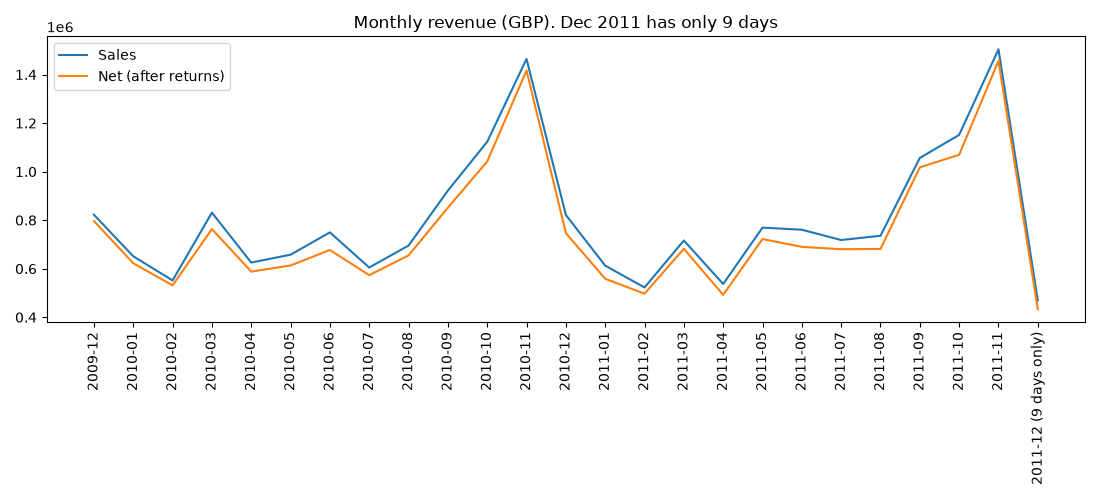
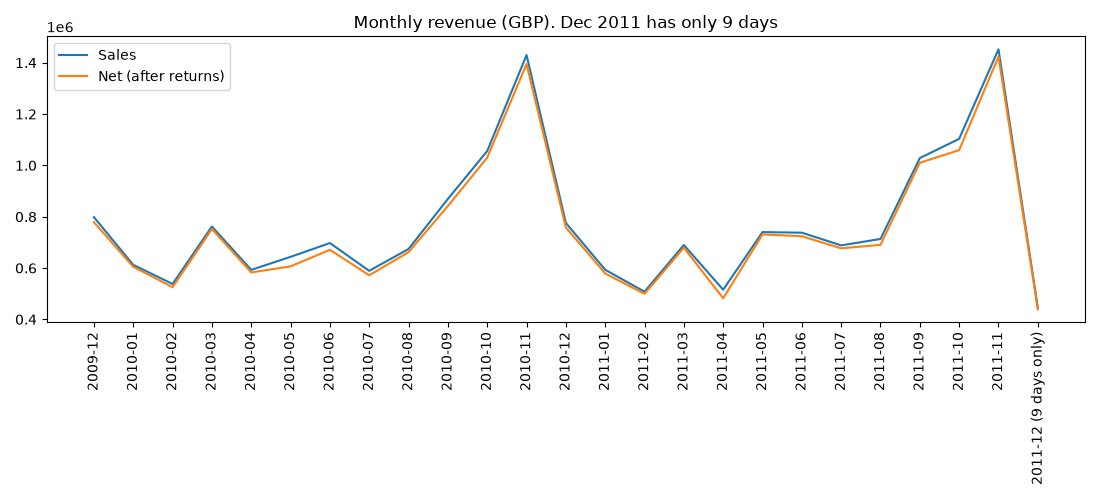
Add files via upload

diff --git a/02_monthly.py b/02_monthly.py
@@ -1,34 +1,40 @@
-import pandas as pd
+import pandas as pd    #getting the tools i need for this project
 import matplotlib.pyplot as plt
-
+                       #getting the data
 df = pd.read_csv("online_retail_II.csv", parse_dates=["InvoiceDate"])
-
-df["Revenue"] = df["Quantity"] * df["Price"]
-df["Month"] = df["InvoiceDate"].dt.to_period("M")
+                      #treat Invoice date column as date, all others are treated as text by default in python
+df["Revenue"] = df["Quantity"] * df["Price"]  #creating a new useful column for analysis
+df["Month"] = df["InvoiceDate"].dt.to_period("M") #month column to group sales by month
 df["is_cancel"] = df["Invoice"].astype(str).str.startswith("C")
 
-# remove two orders that were cancelled right after being placed
+# removing two orders that were canceled right after being placed
 df = df[df["Quantity"].abs() != 80995]
 pair = df["Invoice"].astype(str).isin(["541431", "C541433"])
 df = df[pair == False]
 print(df.shape)
 
+# removing non-product entries (postage, fees, adjustments)
+non_product = ["POST", "DOT", "C2", "M", "D", "S", "BANK CHARGES", "ADJUST", "AMAZONFEE"]
+df = df[df["StockCode"].astype(str).isin(non_product) == False]
+print(df.shape)
+# calculating monthly sales & returns
 sales = df[df["is_cancel"] == False].groupby("Month")["Revenue"].sum()
 returns = df[df["is_cancel"] == True].groupby("Month")["Revenue"].sum()
-
+# creating new table with 3 columns
 table = pd.DataFrame({"sales": sales, "returns": returns})
-table["net"] = table["sales"] + table["returns"]
+table["net"] = table["sales"] + table["returns"]  #net= sales - returns (returns are negative)
 print(table)
 
-months = table.index.astype(str).tolist()
+#Charts
+months = table.index.astype(str).tolist()  #row labels: getting list of months name with the last month renamed
 months[-1] = "2011-12 (9 days only)"
 
-plt.figure(figsize=(11, 5))
-plt.plot(months, table["sales"], label="Sales")
-plt.plot(months, table["net"], label="Net (after returns)")
-plt.xticks(rotation=90)
+plt.figure(figsize=(11, 5))  #blank chart with this size
+plt.plot(months, table["sales"], label="Sales") # draw first line , first x-axis , second y-axis
+plt.plot(months, table["net"], label="Net (after returns)") #draw second line in same chart
+plt.xticks(rotation=90)  #turn the month names sideways so they don’t overlap.
 plt.title("Monthly revenue (GBP). Dec 2011 has only 9 days")
-plt.legend()
+plt.legend()  #shows which line is which
 plt.tight_layout()
 plt.savefig("monthly_revenue.png")
 plt.show()
